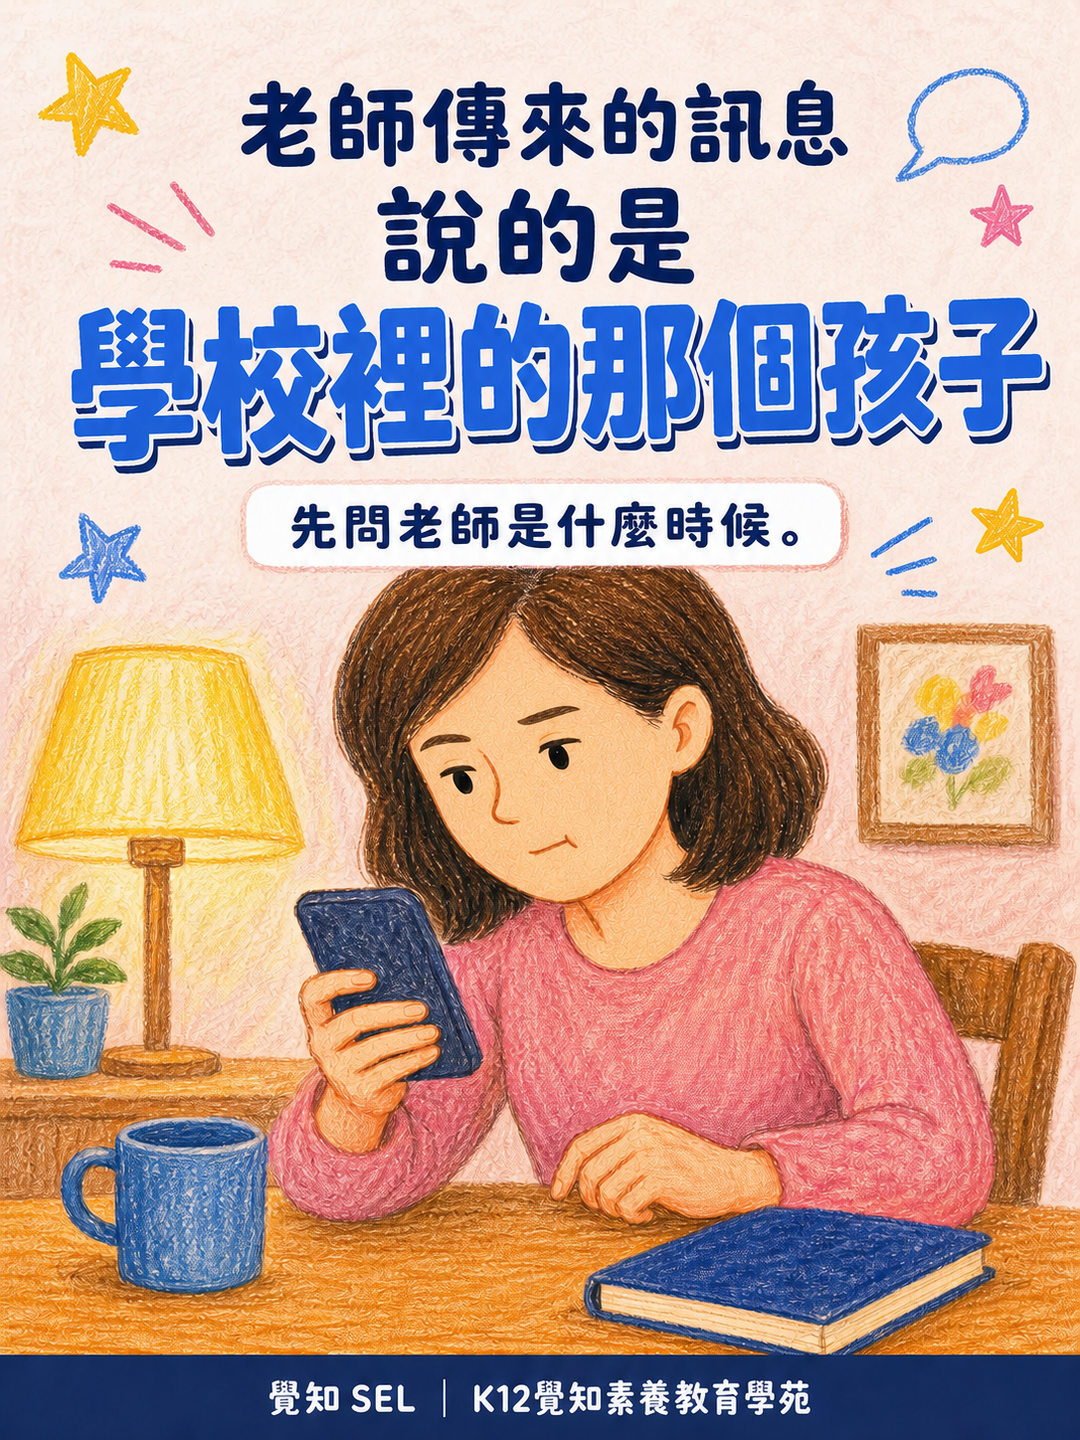
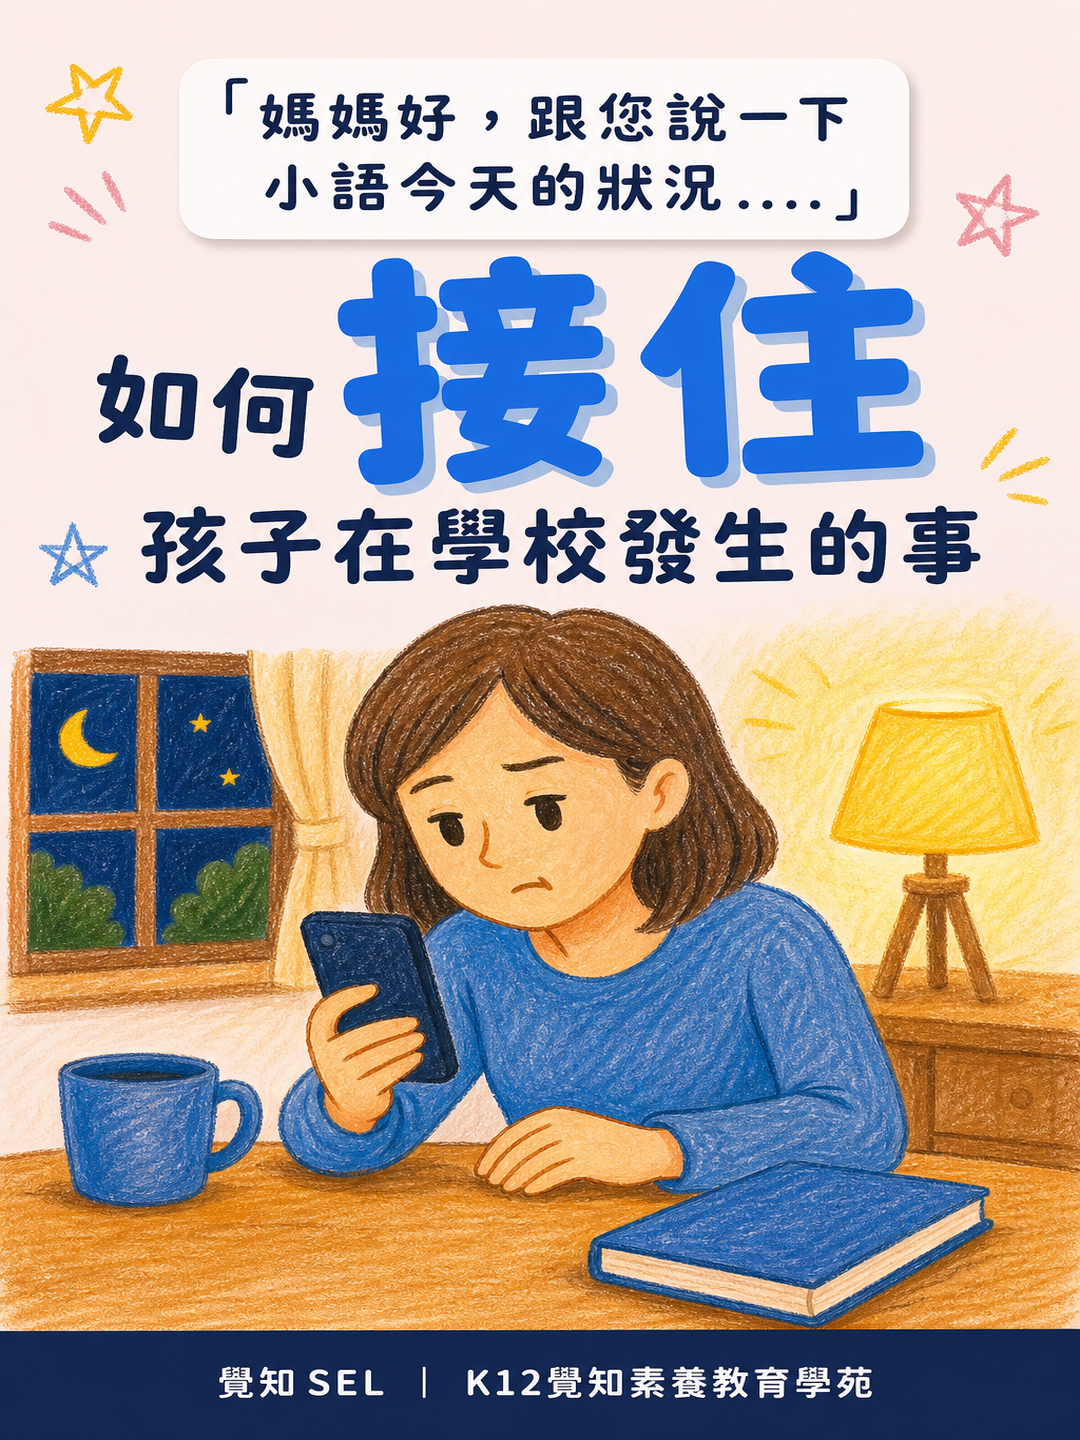
auto: dailynews update 2026-09-02 17:37 TW

diff --git a/2026-09/parenting_essence_2026-09-02.html b/2026-09/parenting_essence_2026-09-02.html
@@ -6,13 +6,13 @@
   <title>老師傳來孩子在學校的事，回訊息之前先問一句「那是什麼時候發生的」 ｜ 覺知教養．每日精華</title>
   <meta name="description" content="開學第二週，手機跳出老師的訊息：跟您說一下小語今天的狀況。很多家長會在那五秒裡先跑完一輪——是不是我家孩子闖禍了、要不要先道歉、晚上回家怎麼問他。可是老師傳這一則，多半不是要家長處理什麼，是把家裡看不到的那一段補給你。老師一天看的是三十個孩子在團體裡的樣子，家長看的是一個孩子在家裡的樣子，兩邊本來就各拿著一半。這一篇談的是：回訊息之前先問清楚三件事——是什麼時候、他當下做了什麼、老師當下怎麼跟他說的。把兩個一半拼起來，親師才是同一隊。">
   <meta name="keywords" content="親師溝通,家長,老師,聯絡簿,開學,合作,溝通技巧,家長學堂,國小,覺知教養,覺知素養,SEL,社會情緒學習,非認知能力,K12覺知素養教育學苑">
-  <meta name="share-title" content="老師傳來的訊息">
+  <meta name="share-title" content="如何接住孩子在學校發生的事">
   <meta name="share-tint" content="warm-amber">
   <meta name="share-palette" content="blush">
   <meta name="hero-title-pos" content="center">
-  <meta name="share-teaser" content="先問老師是什麼時候">
-  <meta name="share-explainer" content="說的是學校裡的那個孩子。">
-  <meta name="share-highlight" content="學校裡的那個孩子">
+  <meta name="share-teaser" content="媽媽好，跟您說一下小語今天的狀況">
+  <meta name="share-explainer" content="如何接住孩子在學校發生的事。">
+  <meta name="share-highlight" content="接住">
   <meta name="share-cta" content="把老師看到的那一段補齊 →">
   <style>
 /* base placeholder — post_essence.py 會注入 v13 完整設計於此 */
@@ -2792,7 +2792,7 @@ body .body section {
       <span class="age">覺知．家長學堂（成人）</span>
       <span class="axis">覺知教養 ｜ 合作 × 把兩邊看到的對起來</span>
     </div>
-    <div class="hook">開學第二週，晚上七點多，手機跳出班級老師的訊息，開頭是：媽媽好，跟您說一下小語今天的狀況。訊息只有三行，讀完不用五秒。可是很多家長會在那五秒裡先跑完一輪——是不是我家孩子闖禍了、要不要先道歉、晚上回家怎麼問他。老師傳這一則，多半不是要家長處理什麼。那是家裡看不到的一段，被人補了過來。接下來要怎麼接，決定了這個學期是兩邊各自使力，還是同一隊。</div>
+    <div class="hook">開學第二週，晚上七點多，手機跳出班級老師的訊息，開頭是：媽媽好，跟您說一下小語今天的狀況。訊息只有三行，讀完不用五秒。可是很多家長會在那五秒裡先跑完一輪——是不是我家孩子闖禍了、要不要先道歉、晚上回家怎麼問他。老師傳這一則，多半不是要家長處理什麼。那是家裡看不到的一段，被人補了過來。如何接住孩子在學校發生的事，決定了這個學期是兩邊各自使力，還是同一隊。</div>
   </header>
 
     <div class="share-card-inline" style="max-width:540px;margin:34px auto 6px;padding:0 22px;box-sizing:border-box;">

diff --git a/index.html b/index.html
@@ -217,7 +217,7 @@ footer.v20 .fslogan{color:#b3a084}
 <a class="card is-latest theme-blue" href="2026-09/parenting_essence_2026-09-02.html" data-axis="wed" data-age="cross" data-hero="https://images.unsplash.com/photo-1758598497259-b51e6ed6c73c?w=1920&auto=format&fit=crop&q=80">
     <div class="card-tags"><span class="age">覺知．家長學堂（成人）</span><span class="axis">週三 ｜ 青少年自我認同</span></div>
     <h3 class="card-title">老師傳來孩子在學校的事，回訊息之前先問一句「那是什麼時候發生的」</h3>
-    <p class="card-hook">開學第二週，晚上七點多，手機跳出班級老師的訊息，開頭是：媽媽好，跟您說一下小語今天的狀況。訊息只有三行，讀完不用五秒。可是很多家長會在那五秒裡先跑完一輪——是不是我家孩子闖禍了、要不要先道歉、晚上回家怎麼問他。老師傳這一則，多半不是要家長處理什麼。那是家裡看不到的一段，被人補了過來。接下來要怎麼接，決定了這個學期是兩邊各自使力，還是同一隊。</p>
+    <p class="card-hook">開學第二週，晚上七點多，手機跳出班級老師的訊息，開頭是：媽媽好，跟您說一下小語今天的狀況。訊息只有三行，讀完不用五秒。可是很多家長會在那五秒裡先跑完一輪——是不是我家孩子闖禍了、要不要先道歉、晚上回家怎麼問他。老師傳這一則，多半不是要家長處理什麼。那是家裡看不到的一段，被人補了過來。如何接住孩子在學校發生的事，決定了這個學期是兩邊各自使力，還是同一隊。</p>
     <span class="upload-date">2026-09-02&nbsp;&nbsp;週三</span>
     <span class="card-cta" style="margin-top:8px;">閱讀全文 &rarr;</span>
   </a>
